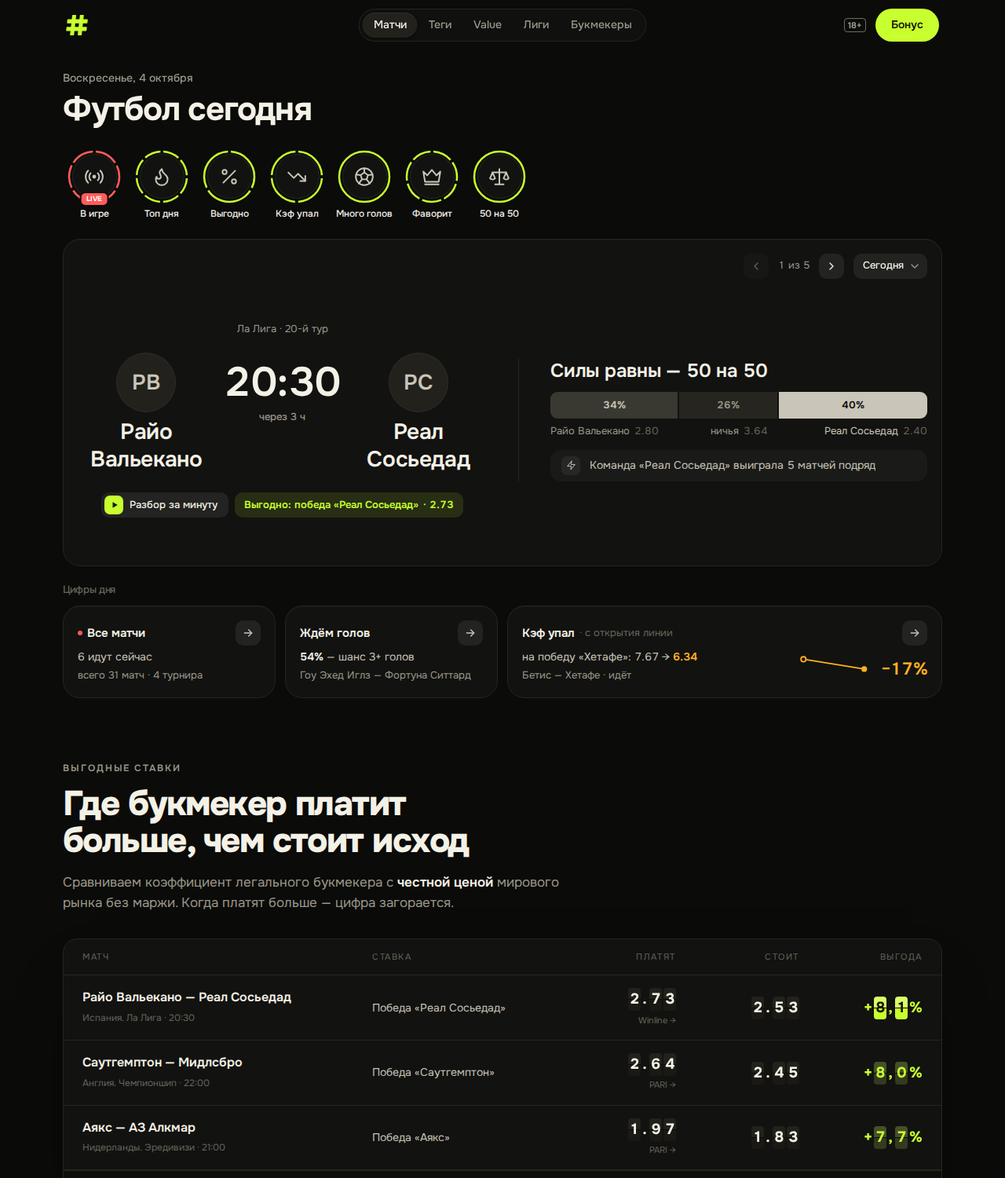
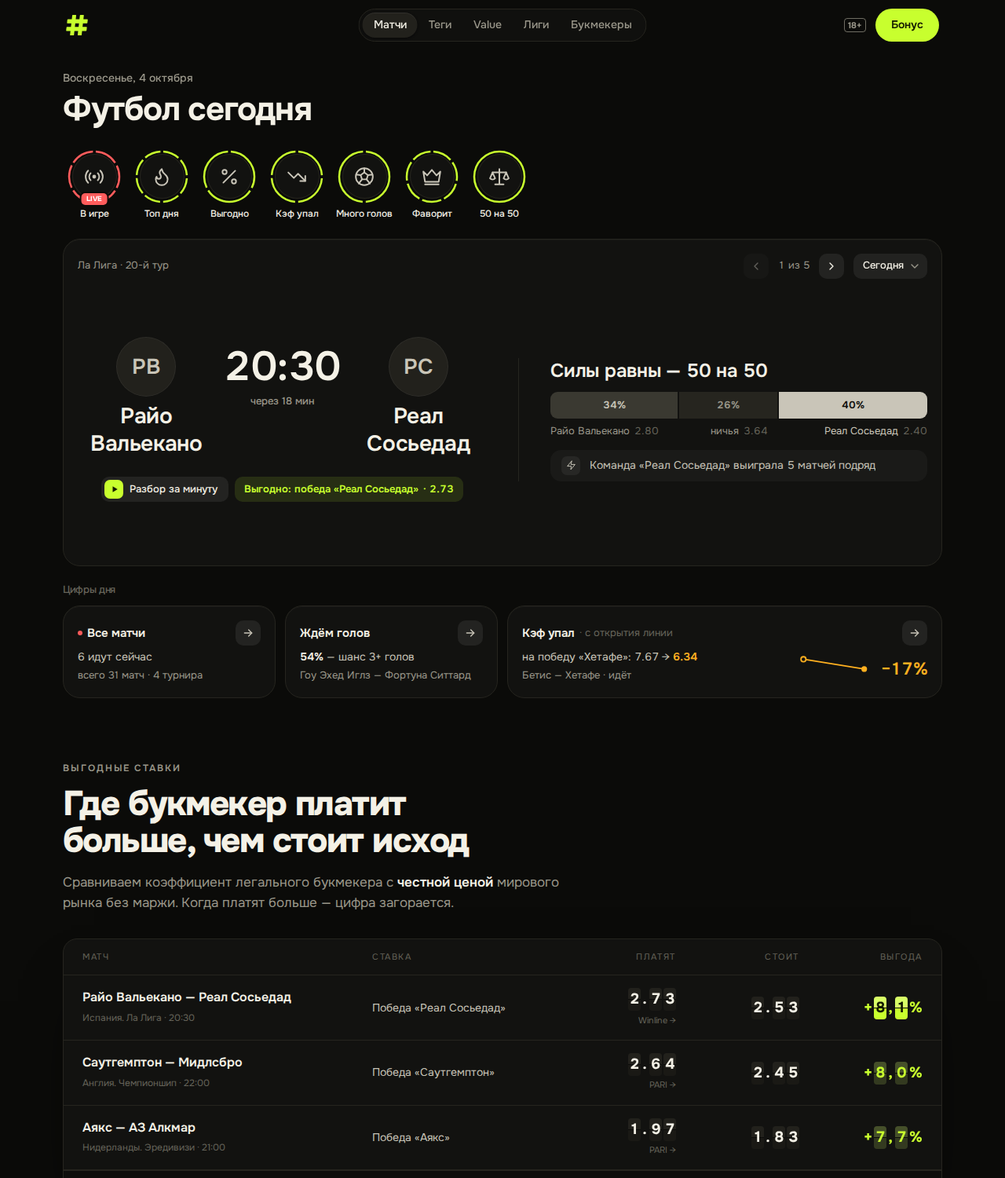
Карточка «Главных матчей»: шапка с турниром, идущий матч как остальные
- Шапка карточки: слева турнир и тур матча на экране (красная точка —
  идёт), справа стрелки «1 из 5» и чип дня. Подпись турнира больше не
  висит над табло, шапка не пустая.
- Идущий матч устроен как остальные слайды: фраза глазами шансов до
  матча («Фаворит «Бетис» (65%) ведёт», «Пока ничья, фаворит — …»,
  «Ведёт «Хетафе», хотя фаворит — …») и полоса шансов. Красная полоса
  «сыграно N из 90 минут» убрана: минута и так видна под счётом.
- Падение кэфа в фактах идущего матча — в той же форме, что до матча:
  «Кэф на «X» снизился: 9.91 → 8.49».
- На телефоне стрелки — внизу, рядом с «Разбором за минуту».
- Сводка влезает в 1280×720, 1440×760 и 1470×805, в худшем случае тоже.

Claude-Session: https://claude.ai/code/session_01LqCxNKeCAKNwhNzoBsjYvY

Changed region(s): [[0.0938, 0.3067, 0.4688, 0.46], [0.2188, 0.276, 0.3438, 0.368]]

diff --git a/components/DaySummary.tsx b/components/DaySummary.tsx
@@ -1,7 +1,7 @@
 import Link from 'next/link'
 import { featuredInfo } from '@/config/leagues'
 import type { FeedItem } from '@/lib/data'
-import { navExamples, type DaySummary as Summary } from '@/lib/day-summary'
+import { navExamples, parseProgruz, type DaySummary as Summary } from '@/lib/day-summary'
 import { formatDayMonth, formatTime, pct, pluralN, todayYmd, ymdInTz } from '@/lib/format'
 import { matchHref } from '@/lib/links'
 import { fair1x2 } from '@/lib/odds'
@@ -100,13 +100,15 @@ type Reason = { text: string; icon: IconName; hot: boolean }
 /**
  * Два факта о встрече — с цифрами и выборкой из тегов: о движении линии («Кэф на «X» снизился: 2.40 → 1.97»)
  * и о командах (серии, дом, потери, личные встречи). «Выгодно» — на кнопке, «фаворит» и «50 на 50» —
- * в главной фразе, их не повторяем. Фактов нет — панели нет, ничего не выдумываем.
+ * в главной фразе (и до матча, и во время игры), их не повторяем. Фактов нет — панели нет, ничего не выдумываем.
  */
 function reasonsFor(it: FeedItem, v: Verdict | null): Reason[] {
   const out: Reason[] = []
-  if (v?.drop) out.push({ text: v.drop, icon: 'down', hot: true })
-  // до матча «фаворит» и «50 на 50» — в главной фразе; во время игры главной фразы нет, и эти факты — к месту
-  const skip = new Set(v ? ['value', 'favorit', 'ravnye', 'progruz'] : ['value', 'progruz'])
+  // падение кэфа — первым; во время игры вывода нет, но падение до начала — всё равно факт
+  const p = v ? null : parseProgruz(it)
+  const drop = v?.drop ?? (p ? `Кэф на ${team(it.match, p.side)} снизился: ${p.from.toFixed(2)} → ${p.to.toFixed(2)}` : null)
+  if (drop) out.push({ text: drop, icon: 'down', hot: true })
+  const skip = new Set(['value', 'favorit', 'ravnye', 'progruz'])
   for (const t of [...it.tags].sort((a, b) => b.score - a.score)) {
     if (!skip.has(t.slug)) out.push({ text: t.reason, icon: artFor(t.slug).icon, hot: false })
   }
@@ -114,16 +116,22 @@ function reasonsFor(it: FeedItem, v: Verdict | null): Reason[] {
   return out.slice(0, 2)
 }
 
-/** Сыгранный матч глазами шансов до него: «Фаворит «Барселона» (79%) выиграл» / «Сенсация: …». */
-function resultLine(m: Match): string | null {
+/**
+ * Идущий или сыгранный матч глазами шансов до него — только счёт и кэфы перед матчем, без прогнозов:
+ * в игре — «Фаворит «Бетис» (65%) ведёт», «Пока ничья, фаворит — «Бетис» (65%)», «Ведёт «Хетафе», хотя
+ * фаворит — «Бетис» (65%)»; после матча — «Фаворит … выиграл», «Ничья: фаворит … не выиграл», «Сенсация: …».
+ */
+function playedLine(m: Match): string | null {
   const f = fair1x2(m.odds?.x12)
-  const s = m.scoreFT ?? m.score
+  const finished = m.status === 'finished'
+  const s = finished ? (m.scoreFT ?? m.score) : m.score
   if (!f || !s) return null
-  if (Math.abs(f.home - f.away) < 0.1) return 'Шансы были почти равны'
+  if (Math.abs(f.home - f.away) < 0.1) return finished ? 'Шансы были почти равны' : 'Шансы до матча были почти равны'
   const side = f.home >= f.away ? 'home' : 'away'
   const diff = side === 'home' ? s.home - s.away : s.away - s.home
   const fav = `${team(m, side)} (${pct(f[side])})`
-  return diff > 0 ? `Фаворит ${fav} выиграл` : diff === 0 ? `Ничья: фаворит ${fav} не выиграл` : `Сенсация: фаворит ${fav} проиграл`
+  if (finished) return diff > 0 ? `Фаворит ${fav} выиграл` : diff === 0 ? `Ничья: фаворит ${fav} не выиграл` : `Сенсация: фаворит ${fav} проиграл`
+  return diff > 0 ? `Фаворит ${fav} ведёт` : diff === 0 ? `Пока ничья, фаворит — ${fav}` : `Ведёт ${team(m, side === 'home' ? 'away' : 'home')}, хотя фаворит — ${fav}`
 }
 
 /** Вывод до матча — только с выгодной ставкой: обычный прогноз модели бывает «против» главной фразы и путает. */
@@ -134,13 +142,14 @@ const verdictOf = (it: FeedItem) => {
   return buildVerdict({ match: m, tags: it.tags, pick: pick?.kind === 'value' ? pick : null })
 }
 
-/** Матч слайда для кнопок под лентой: разбор и «Выгодно» относятся к матчу, который сейчас на экране. */
+/** Матч слайда для шапки и кнопок карточки: турнир, разбор и «Выгодно» — про матч, который сейчас на экране. */
 function slideMeta(it: FeedItem): MainSlide {
   const m = it.match
   const v = verdictOf(it)
   const pick = m.status === 'scheduled' ? it.summary?.pick : null
   const bet = v?.bet && pick ? { label: pick.key === v.side ? 'Выгодно' : `Выгодно: ${v.bet.text}`, odd: v.bet.odd } : null
-  return { id: m.id, href: matchHref(m), live: isLive(m), bet }
+  const caption = `${leagueShort(m.league)}${m.round ? ` · ${m.round}` : ''}`
+  return { id: m.id, href: matchHref(m), live: isLive(m), caption, bet }
 }
 
 /**
@@ -158,10 +167,11 @@ function TopSlide({ it }: { it: FeedItem }) {
   const bet = slideMeta(it).bet
   // факты о командах полезны и во время игры; после матча — уже нет
   const reasons = finished ? [] : reasonsFor(it, v)
-  const headline = v?.headline ?? (finished ? resultLine(m) : null)
+  // до матча — вывод; в игре и после — счёт глазами шансов до матча: у всех слайдов одна схема «фраза → полоса»
+  const headline = v?.headline ?? (played ? playedLine(m) : null)
   const odds = Boolean(fair1x2(m.odds?.x12))
   const minute = m.statusCode === 4 ? 'перерыв' : m.elapsed ? `${m.elapsed}-я минута` : 'идёт'
-  const wide = live || odds || reasons.length > 0
+  const wide = odds || reasons.length > 0
   const side = (t: Match['home'], k: 'home' | 'away') => (
     <span className="flex min-w-0 flex-col items-center gap-2 text-center">
       <TeamLogo name={t.name} src={t.logo} size="var(--logo)" />
@@ -175,11 +185,8 @@ function TopSlide({ it }: { it: FeedItem }) {
 
   return (
     <div className={`relative flex min-w-0 flex-1 flex-col justify-center gap-4 ${wide ? 'lg:grid lg:grid-cols-2 lg:items-center lg:gap-x-10' : ''}`}>
+      {/* турнир и тур — в шапке карточки (TopCarousel), напротив стрелок и чипа дня */}
       <div className="flex min-w-0 flex-col items-center gap-3 lg:gap-[clamp(12px,1.8vh,20px)] lg:[@media(max-height:739px)]:gap-2">
-        <p className="text-[13px] text-dim">
-          {leagueShort(m.league)}
-          {m.round ? ` · ${m.round}` : ''}
-        </p>
         {/* табло: хозяева — время (после свистка — счёт) — гости; вся карточка открывает сторис;
             эмблемы растут с высотой окна, чтобы на большом мониторе карточка не пустела */}
         <StoryLink
@@ -212,16 +219,8 @@ function TopSlide({ it }: { it: FeedItem }) {
 
       {wide ? (
         <div className="flex min-w-0 flex-col gap-4 lg:gap-3.5 lg:border-l lg:border-edge lg:pl-10">
-          {live ? (
-            // идёт матч: сколько сыграно — тонкой полосой; вывода до матча здесь уже нет
-            <div>
-              <div className="h-1.5 rounded-full bg-white/[0.08]" aria-hidden>
-                <div className="h-full rounded-full bg-live" style={{ width: `${Math.min(100, ((m.elapsed ?? 45) / 90) * 100)}%` }} />
-              </div>
-              <p className="mt-2 text-center text-[13px] text-mute lg:text-left">сыграно {Math.min(90, m.elapsed ?? 45)} из 90 минут</p>
-            </div>
-          ) : odds ? (
-            // вывод (или итог сыгранного) → на чём он основан: шансы по кэфам перед матчем
+          {odds ? (
+            // фраза → на чём она основана: шансы по кэфам перед матчем (и у идущего, и у сыгранного)
             <div>
               {headline ? (
                 <p className="mb-2.5 text-center text-[17px] font-semibold leading-snug tracking-[-0.01em] lg:text-left lg:text-[clamp(17px,2.5vh,24px)]">{headline}</p>

diff --git a/components/TopCarousel.tsx b/components/TopCarousel.tsx
@@ -4,8 +4,8 @@ import { useEffect, useRef, useState } from 'react'
 import { CHIP, StoryChipFace, ValueChip } from './Chips'
 import { openStory } from './story/events'
 
-/** Матч слайда — для кнопок под лентой: они относятся к матчу, который сейчас на экране. */
-export type MainSlide = { id: number; href: string; live: boolean; bet: { label: string; odd: number | null } | null }
+/** Матч слайда — для шапки и кнопок карточки: турнир, разбор и «Выгодно» — про матч, который сейчас на экране. */
+export type MainSlide = { id: number; href: string; live: boolean; caption: string; bet: { label: string; odd: number | null } | null }
 /** День в блоке: «Вчера» — итоги, «Сегодня», «Завтра» — анонс. */
 export type MainDay = { key: string; label: string; slides: MainSlide[] }
 
@@ -19,10 +19,10 @@ function Arrow({ dir }: { dir: 'left' | 'right' }) {
 
 /**
  * «Главные матчи» — до пяти важных встреч дня (lib/day-summary.ts, mainMatches). Подписи над карточкой нет:
- * она и так понятна (владелец оставил подпись только над «Цифрами дня»). В правом верхнем углу карточки —
- * стрелки «1 из 5» (на телефоне — и свайп), без автопрокрутки, и чип дня: он меняет только этот блок —
- * заглянуть во вчера (итоги) и в завтра (анонс); истории, переходы под блоком и список матчей остаются про
- * день страницы. Слайды — лента со scroll-snap: без JS видны все матчи дня.
+ * она и так понятна (владелец оставил подпись только над «Цифрами дня»). Шапка карточки: слева турнир и тур
+ * матча на экране, справа стрелки «1 из 5» (на телефоне — внизу, и свайп), без автопрокрутки, и чип дня: он
+ * меняет только этот блок — заглянуть во вчера (итоги) и в завтра (анонс); истории, переходы под блоком
+ * и список матчей остаются про день страницы. Слайды — лента со scroll-snap: без JS видны все матчи дня.
  */
 export function TopCarousel({
   days,
@@ -90,13 +90,16 @@ export function TopCarousel({
         </button>
       </div>
     ) : null
-  const controls = n > 1 || days.length > 1
   return (
     <article aria-label="Главные матчи" className={`relative flex min-w-0 flex-col py-[18px] ${className}`}>
-      {controls ? (
-        // в правом верхнем углу — стрелки и чип дня (сверху и справа поровну); день не со страницы — подписан на чипе
-        <div className="flex items-center justify-end gap-3 px-[18px]">
-          {arrows('flex')}
+      {/* шапка: слева турнир матча на экране, справа стрелки и чип дня (в углу — сверху и справа поровну) */}
+      <div className="flex items-center justify-between gap-3 px-[18px]">
+        <p className="min-w-0 truncate text-[13px] text-dim">
+          {meta?.live ? <span className="mr-2 inline-block h-1.5 w-1.5 animate-pulse-live rounded-full bg-live align-middle" aria-label="идёт" /> : null}
+          {meta?.caption}
+        </p>
+        <div className="flex shrink-0 items-center gap-3">
+          {arrows('hidden sm:flex')}
           {days.length > 1 ? (
             <div ref={menu} className="relative z-20 shrink-0">
               <button type="button" aria-haspopup="listbox" aria-expanded={open} aria-label={`День главных матчей: ${current?.label ?? ''}`} onClick={() => setOpen((o) => !o)} className={`${CHIP} gap-1.5 pl-3 pr-2`}>
@@ -132,12 +135,12 @@ export function TopCarousel({
             </div>
           ) : null}
         </div>
-      ) : null}
+      </div>
 
       <div
         key={current?.key}
         ref={track}
-        className={`scrollbar-none flex flex-1 snap-x snap-mandatory overflow-x-auto overscroll-x-contain ${controls ? 'mt-3 lg:[@media(max-height:739px)]:mt-2' : ''}`}
+        className="scrollbar-none mt-3 flex flex-1 snap-x snap-mandatory overflow-x-auto overscroll-x-contain lg:[@media(max-height:739px)]:mt-2"
         onScroll={(e) => {
           const el = e.currentTarget
           const k = Math.round(el.scrollLeft / Math.max(1, el.clientWidth))
@@ -151,8 +154,8 @@ export function TopCarousel({
         ))}
       </div>
 
-      {/* на телефоне и планшете — под лентой: «Выгодно» и разбор матча, который на экране.
-          На компьютере эти кнопки — под табло в самом слайде */}
+      {/* на телефоне и планшете — под лентой: «Выгодно» строкой выше, ниже разбор матча на экране
+          (на телефоне рядом — стрелки). На компьютере эти кнопки — под табло в самом слайде */}
       <div className="mt-4 flex flex-wrap items-center gap-2 px-[18px] lg:hidden">
         {meta?.bet ? (
           <div className="flex w-full min-w-0">
@@ -164,6 +167,7 @@ export function TopCarousel({
             <StoryChipFace />
           </button>
         ) : null}
+        {arrows('ml-auto flex shrink-0 sm:hidden')}
       </div>
     </article>
   )

diff --git a/AGENTS.md b/AGENTS.md
@@ -20,7 +20,7 @@ This block is written and re-added by `next dev` — verify at `node_modules/nex
 - Демо без сети: `SSTATS_MOCK=1` (полосы над шапкой нет — только строка в подвале, `IS_MOCK` в `Footer.tsx`). Проверки: `npm run typecheck`, `npm test`, `npm run build`.
 - «Матч в слайдах» (сторис): данные — `lib/story.ts` → `/api/story/[id]`, просмотр и графики — `components/story/`. Ссылки на матч в списках — через `StoryLink` (обычная ссылка для SEO, клик открывает сторис).
 - Кружки историй на главной: группы — `lib/story-groups.ts` (порядок по `lib/rank.ts`), ряд — `components/story/StoryCircles.tsx`, очередь передаётся в просмотрщик через `openStory({ queue })`. Просмотренные — в `localStorage` (`components/story/seen.ts`, ключ `tagbet:seen:v2`), только для колец и отдельно для каждого кружка (отметка «кружок:матч»): просмотр в одном кружке не гасит другие, открытия из списков и виджетов не считаются; сегменты гаснут по порядку от верха. Очередь по тапу и отметки повторов — `components/story/queue.ts` (тест `tests/story-queue.test.ts`). На главной — «В игре», «Топ дня» и до 5 главных тегов (`mainCircles`), подписи в одну строку, без решётки и с большой буквы («Кэф упал», «50 на 50» — `storyLabel` в `lib/story-groups.ts`), так же — в шапке просмотрщика; так решил владелец (раньше решётка была у всех кружков). У тегов в строках матчей, на страницах тегов и внутри слайдов решётка остаётся.
-- «Сводка дня» (первый экран главной): данные — `lib/day-summary.ts`, вид — `components/DaySummary.tsx` + `components/TopCarousel.tsx` (клиент). Сверху во всю ширину — «Главные матчи»: до 5 важных встреч дня (`mainMatches`: по важности турнира и команд — `prestige`, сначала по одной на лигу, идущие и предстоящие важнее сыгранных — сыгранные только когда впереди ничего нет; молодёжные, женские, перенесённые — мимо), листаются стрелками «1 из 5» (на телефоне — и свайпом), без автопрокрутки; лента со scroll-snap, без JS видны все матчи, высота — по самому высокому слайду. Подписи над карточкой нет — она и так понятна (владелец сравнил и оставил подпись только над рядом переходов: «Цифры дня», как «Топ-турниры» на странице лиг — 13px, `text-mute`). Стрелки и чип дня — в правом верхнем углу карточки (сверху и справа поровну). Чип («Вчера · Сегодня · Завтра», только на «Сегодня») меняет только сам блок — так решил владелец: истории, переходы под блоком и список остаются про день страницы; какой день открыт — видно на чипе; соседние дни — `peekMatchesByDate` (из кэша сразу, на холодном старте не дольше 1,5 с, иначе без них). Слайд — как карточка матча в спортивных приложениях; на компьютере в две колонки через тонкий разделитель: слева «турнир · тур» и табло «хозяева (эмблема 56px, растёт с высотой окна до 76px, на окне ниже 740px — 44px; и название) · время (под ним «через 40 мин» / дата; в игре — красный счёт и минута; сыгран — счёт и «итог») · гости» — названия заметнее времени; справа — вывод словами (до матча, `buildVerdict`) или итог глазами шансов у сыгранного («Фаворит «X» (79%) выиграл», «Ничья: фаворит … не выиграл», «Сенсация: фаворит … проиграл», «Шансы были почти равны»), нейтральная полоса шансов в процентах (светлая часть — фаворит) с подписями исходов «хозяева · ничья · гости» и кэфами рядом (на телефоне кэф — строкой ниже) и два факта «почему» из тегов одной панелью (на компьютере второй — от 800px высоты окна: факт бывает в две строки, иначе 1280×720 и 1440×760 не влезают); во время игры справа — «сыграно N из 90 минут». «Разбор за минуту» и «Выгодно» (только выгодная ставка): на компьютере — под табло в самом слайде (вся карточка — ссылка на сторис, поэтому это подписи, а не кнопки; так у карточки нет отдельного нижнего ряда и сводка с подписями влезает в окно), на телефоне и планшете — под лентой («Выгодно» строкой выше). Под блоком — три перехода 1:1:2 (`NavTile`): «Все матчи» → `#matches` (сколько идёт сейчас / всего матчей и турниров / ближайший), «Ждём голов» → `/tag/tb-2-5` («54% — шанс 3+ голов» и матч) и широкий «Кэф упал» → `/tag/progruz` («на победу «X»: 2.32 → 1.94», «с открытия линии», `DropChart` — две точки «было → стало» и «−16%» янтарём; кривой нет, пока нет настоящей истории кэфов — история PARI отдельным шагом). Примеры — `navExamples`: сначала ещё не начавшиеся матчи (не матч дня, по возможности разные — `dayStats`), иначе идущий (падение до начала — уже факт); нет данных — простые слова («Заметных падений кэфа нет»), без выдуманных цифр. Стрелка — в строке названия, в углу. «Проверка шансов» с первого экрана ушла: полный график «давали — сбылось» — на `/about#proverka` (`components/ChanceChart.tsx`: столбик — сбылось, белая черта — давали, монохромно, подсказка при наведении/тапе/стрелках; корзины «около 10% … 90%»). Расчёт — `lib/chance-check.ts` (исходы 1X2 сыгранных «взрослых» матчей, шансы — кэфы перед матчем без маржи, итог — по основному времени; корзина меньше 30 исходов не показывается, всего меньше 300 — графика нет), данные — `getChanceCheck` в `lib/data.ts` (30 дней до сегодня; итоги дня кэшируются отдельно и надолго, `/about` ждёт `peekChanceCheck` не дольше 1,5 с, остальное считает прогрев). Не возвращайте виджет «сколько бы заработали» в рублях: крупное «+8 160 ₽, если ставить по 1000 ₽» читается как «ставки — заработок» (ст. 27 закона «О рекламе»), владелец выбрал проценты; и «Фавориты вчера» (кто выиграл, без сравнения с шансом) — тоже нет. История: «одна цифра + один матч» с подписями «к честной цене» и плиткой «Первый матч 14:30» владелец счёл неинформативной, списки по 3 матча в плитках — каталогом, понравилось «большие цифры или график»; схему «высокий «Матч дня» слева, плитки справа» сравнил и выбрал широкий блок сверху и ряд под ним; без главного блока сводка («Главное за день») не понравилась. Не возвращайте ни списки в плитках, ни цифры без простых слов рядом, и не убирайте «Главные матчи». Всё тёмное, цвет — только у цифр и выделенной команды: лайм — выгодно, янтарь — кэф упал, красный — live; текст не мельче 13px, без колец-диаграмм (похожи на значок загрузки). Выбор дня — у списка «Все матчи дня»: `DateTabs` (Вчера · Сегодня · Завтра · дальше день недели без числа; красная точка у «Сегодня», пока идут матчи — `liveToday` из `DayView`) + календарь `DatePicker` (±1 год / +2 месяца), ведут сразу к списку (`#matches`). Порядок «Все матчи дня» — переключатель «По турнирам / По времени» ссылками `?sort=time` (без JS, canonical прежний; `TimeBlock` — по часам, с турниром в строке); на прошедших днях переключателя нет — там порядок по турнирам, главные результаты первыми. Первый экран главной (шапка, кружки, сводка) на компьютере занимает всё окно: обёртка в `DayView` — `lg:min-h-[min(calc(100svh-7rem),50rem)]`, сводка — `lg:flex-1` и внутри flex-колонка: ряд переходов — по содержимому, вся лишняя высота — «Главным матчам» (`lg:flex-1`; не делайте строки grid с `fr` — в intrinsic-проходе они раздуваются), табло растёт с высотой окна (`clamp(…vh…)`), на невысоком окне (до 739px) отступы над сводкой и внутри «Главных матчей» меньше, эмблемы — 44px, а «Все матчи дня» начинаются ниже, по прокрутке. Сводка должна влезать целиком в 1280×720, 1440×760 и 1470×805 — и в худшем случае (длинные названия и факт в две строки), а заголовок «Матчи» — не выглядывать снизу; проверяйте замером. На прошедших днях сводки нет, и список идёт сразу под заголовком страницы (без второго заголовка).
+- «Сводка дня» (первый экран главной): данные — `lib/day-summary.ts`, вид — `components/DaySummary.tsx` + `components/TopCarousel.tsx` (клиент). Сверху во всю ширину — «Главные матчи»: до 5 важных встреч дня (`mainMatches`: по важности турнира и команд — `prestige`, сначала по одной на лигу, идущие и предстоящие важнее сыгранных — сыгранные только когда впереди ничего нет; молодёжные, женские, перенесённые — мимо), листаются стрелками «1 из 5» (на телефоне — и свайпом), без автопрокрутки; лента со scroll-snap, без JS видны все матчи, высота — по самому высокому слайду. Подписи над карточкой нет — она и так понятна (владелец сравнил и оставил подпись только над рядом переходов: «Цифры дня», как «Топ-турниры» на странице лиг — 13px, `text-mute`). Шапка карточки: слева — турнир и тур матча на экране (красная точка — идёт), справа — стрелки (на телефоне — внизу, рядом с «Разбором за минуту») и чип дня, в углу сверху и справа поровну. Пустая шапка или подпись турнира, висящая над табло, владельцу показались некрасивыми. Чип («Вчера · Сегодня · Завтра», только на «Сегодня») меняет только сам блок — так решил владелец: истории, переходы под блоком и список остаются про день страницы; какой день открыт — видно на чипе; соседние дни — `peekMatchesByDate` (из кэша сразу, на холодном старте не дольше 1,5 с, иначе без них). Слайд — как карточка матча в спортивных приложениях; на компьютере в две колонки через тонкий разделитель: слева табло «хозяева (эмблема 56px, растёт с высотой окна до 76px, на окне ниже 740px — 44px; и название) · время (под ним «через 40 мин» / дата; в игре — красный счёт и минута; сыгран — счёт и «итог») · гости» — названия заметнее времени; справа — у всех слайдов одна схема «фраза → полоса шансов»: до матча — вывод словами (`buildVerdict`), во время игры и после — счёт глазами шансов до матча (`playedLine`: «Фаворит «X» (65%) ведёт», «Пока ничья, фаворит — «X» (65%)», «Ведёт «Y», хотя фаворит — «X» (65%)»; «Фаворит «X» (79%) выиграл», «Ничья: фаворит … не выиграл», «Сенсация: фаворит … проиграл», «Шансы были почти равны»), нейтральная полоса шансов в процентах (светлая часть — фаворит) с подписями исходов «хозяева · ничья · гости» и кэфами рядом (на телефоне кэф — строкой ниже) и два факта «почему» из тегов одной панелью (на компьютере второй — от 800px высоты окна: факт бывает в две строки, иначе 1280×720 и 1440×760 не влезают); красную полосу «сыграно N из 90 минут» не возвращайте — минута и так видна под счётом, а полоса выглядела тревожно и некрасиво. «Разбор за минуту» и «Выгодно» (только выгодная ставка): на компьютере — под табло в самом слайде (вся карточка — ссылка на сторис, поэтому это подписи, а не кнопки; так у карточки нет отдельного нижнего ряда и сводка с подписями влезает в окно), на телефоне и планшете — под лентой («Выгодно» строкой выше). Под блоком — три перехода 1:1:2 (`NavTile`): «Все матчи» → `#matches` (сколько идёт сейчас / всего матчей и турниров / ближайший), «Ждём голов» → `/tag/tb-2-5` («54% — шанс 3+ голов» и матч) и широкий «Кэф упал» → `/tag/progruz` («на победу «X»: 2.32 → 1.94», «с открытия линии», `DropChart` — две точки «было → стало» и «−16%» янтарём; кривой нет, пока нет настоящей истории кэфов — история PARI отдельным шагом). Примеры — `navExamples`: сначала ещё не начавшиеся матчи (не матч дня, по возможности разные — `dayStats`), иначе идущий (падение до начала — уже факт); нет данных — простые слова («Заметных падений кэфа нет»), без выдуманных цифр. Стрелка — в строке названия, в углу. «Проверка шансов» с первого экрана ушла: полный график «давали — сбылось» — на `/about#proverka` (`components/ChanceChart.tsx`: столбик — сбылось, белая черта — давали, монохромно, подсказка при наведении/тапе/стрелках; корзины «около 10% … 90%»). Расчёт — `lib/chance-check.ts` (исходы 1X2 сыгранных «взрослых» матчей, шансы — кэфы перед матчем без маржи, итог — по основному времени; корзина меньше 30 исходов не показывается, всего меньше 300 — графика нет), данные — `getChanceCheck` в `lib/data.ts` (30 дней до сегодня; итоги дня кэшируются отдельно и надолго, `/about` ждёт `peekChanceCheck` не дольше 1,5 с, остальное считает прогрев). Не возвращайте виджет «сколько бы заработали» в рублях: крупное «+8 160 ₽, если ставить по 1000 ₽» читается как «ставки — заработок» (ст. 27 закона «О рекламе»), владелец выбрал проценты; и «Фавориты вчера» (кто выиграл, без сравнения с шансом) — тоже нет. История: «одна цифра + один матч» с подписями «к честной цене» и плиткой «Первый матч 14:30» владелец счёл неинформативной, списки по 3 матча в плитках — каталогом, понравилось «большие цифры или график»; схему «высокий «Матч дня» слева, плитки справа» сравнил и выбрал широкий блок сверху и ряд под ним; без главного блока сводка («Главное за день») не понравилась. Не возвращайте ни списки в плитках, ни цифры без простых слов рядом, и не убирайте «Главные матчи». Всё тёмное, цвет — только у цифр и выделенной команды: лайм — выгодно, янтарь — кэф упал, красный — live; текст не мельче 13px, без колец-диаграмм (похожи на значок загрузки). Выбор дня — у списка «Все матчи дня»: `DateTabs` (Вчера · Сегодня · Завтра · дальше день недели без числа; красная точка у «Сегодня», пока идут матчи — `liveToday` из `DayView`) + календарь `DatePicker` (±1 год / +2 месяца), ведут сразу к списку (`#matches`). Порядок «Все матчи дня» — переключатель «По турнирам / По времени» ссылками `?sort=time` (без JS, canonical прежний; `TimeBlock` — по часам, с турниром в строке); на прошедших днях переключателя нет — там порядок по турнирам, главные результаты первыми. Первый экран главной (шапка, кружки, сводка) на компьютере занимает всё окно: обёртка в `DayView` — `lg:min-h-[min(calc(100svh-7rem),50rem)]`, сводка — `lg:flex-1` и внутри flex-колонка: ряд переходов — по содержимому, вся лишняя высота — «Главным матчам» (`lg:flex-1`; не делайте строки grid с `fr` — в intrinsic-проходе они раздуваются), табло растёт с высотой окна (`clamp(…vh…)`), на невысоком окне (до 739px) отступы над сводкой и внутри «Главных матчей» меньше, эмблемы — 44px, а «Все матчи дня» начинаются ниже, по прокрутке. Сводка должна влезать целиком в 1280×720, 1440×760 и 1470×805 — и в худшем случае (длинные названия и факт в две строки), а заголовок «Матчи» — не выглядывать снизу; проверяйте замером. На прошедших днях сводки нет, и список идёт сразу под заголовком страницы (без второго заголовка).
 - Шапка (логотип — только наклонная лаймовая решётка `LogoMark`, 26 px в шапке и 28 в подвале, без надписи «tag.bet» — так решил владелец; знак — `components/logo-paths.ts` из `public/brand/mark.svg`; без подложки): `components/Header.tsx` + `HeaderShell.tsx` (стекло после прокрутки) + `NavCapsule.tsx` (меню-капсула; раздел по адресу — `activeNav`).
 - Кнопки и чипы сводки (чип дня, стрелки «1 из 5», стрелка `Go`, «Разбор за минуту», «Выгодно»; общие классы — `components/Chips.tsx`) — скруглённые прямоугольники (углы 10px, меню — 14px), мягкая заливка без обводки, высота 32px (владелец решил сделать их крупнее); капсулой остаётся только меню в шапке. Отступ карточек сводки — 18px со всех сторон (у стрелки в углу плитки сверху и справа поровну — проверяйте замером).
 - Цвета по смыслу: лайм — «цена выше честной» (сила перевеса — яркостью лайма, `edgeTone` в `components/Flaps.tsx`), янтарь — прогруз, красный — live. Светофор не используем.

diff --git a/README.md b/README.md
@@ -34,11 +34,11 @@
 - Главная и страницы дней: кружки историй («В игре», «Топ дня» и до пяти главных тегов — подписи без решётки,
   с большой буквы) и «сводка дня» — она занимает весь первый экран: заходишь и сразу видишь главное. Сверху —
   большой блок «Главные матчи»: до пяти важных встреч дня (по важности турнира, по одной на лигу), листаются
-  стрелками «1 из 5» в правом верхнем углу, без автопрокрутки; чип дня рядом («Вчера · Сегодня · Завтра»)
-  меняет только сам блок — вчерашние итоги
-  («Фаворит «Ливерпуль» (62%) выиграл») и завтрашний анонс. В матче слева — турнир, табло и под ним «Разбор
-  за минуту» и «Выгодно», справа — вывод словами, полоса шансов с подписями исходов и кэфами и два факта
-  «почему». Ниже, под маленькой подписью «Цифры дня» (как «Топ-турниры» на странице лиг), — три перехода 1:1:2: «Все матчи» (сколько идёт сейчас), «Ждём
+  стрелками «1 из 5» в правом верхнем углу (слева в шапке — турнир и тур), без автопрокрутки; чип дня рядом
+  («Вчера · Сегодня · Завтра») меняет только сам блок — вчерашние итоги («Фаворит «Ливерпуль» (62%)
+  выиграл») и завтрашний анонс. В матче слева — табло и под ним «Разбор за минуту» и «Выгодно», справа —
+  фраза (до матча — вывод, в игре — «Фаворит «Бетис» (65%) ведёт»), полоса шансов с подписями исходов и
+  кэфами и два факта «почему». Ниже, под маленькой подписью «Цифры дня» (как «Топ-турниры» на странице лиг), — три перехода 1:1:2: «Все матчи» (сколько идёт сейчас), «Ждём
   голов» (пример: «54% — шанс 3+ голов» и матч) и широкий «Кэф упал» («на победу «Хетафе»: 7.67 → 6.34» с
   открытия линии, две точки «было → стало» и «−17%»). «Проверка шансов» — сбываются ли проценты сайта — на
   «Как мы считаем» (`/about#proverka`, `lib/chance-check.ts`). Ниже, по прокрутке, — таблица «Выгодные
